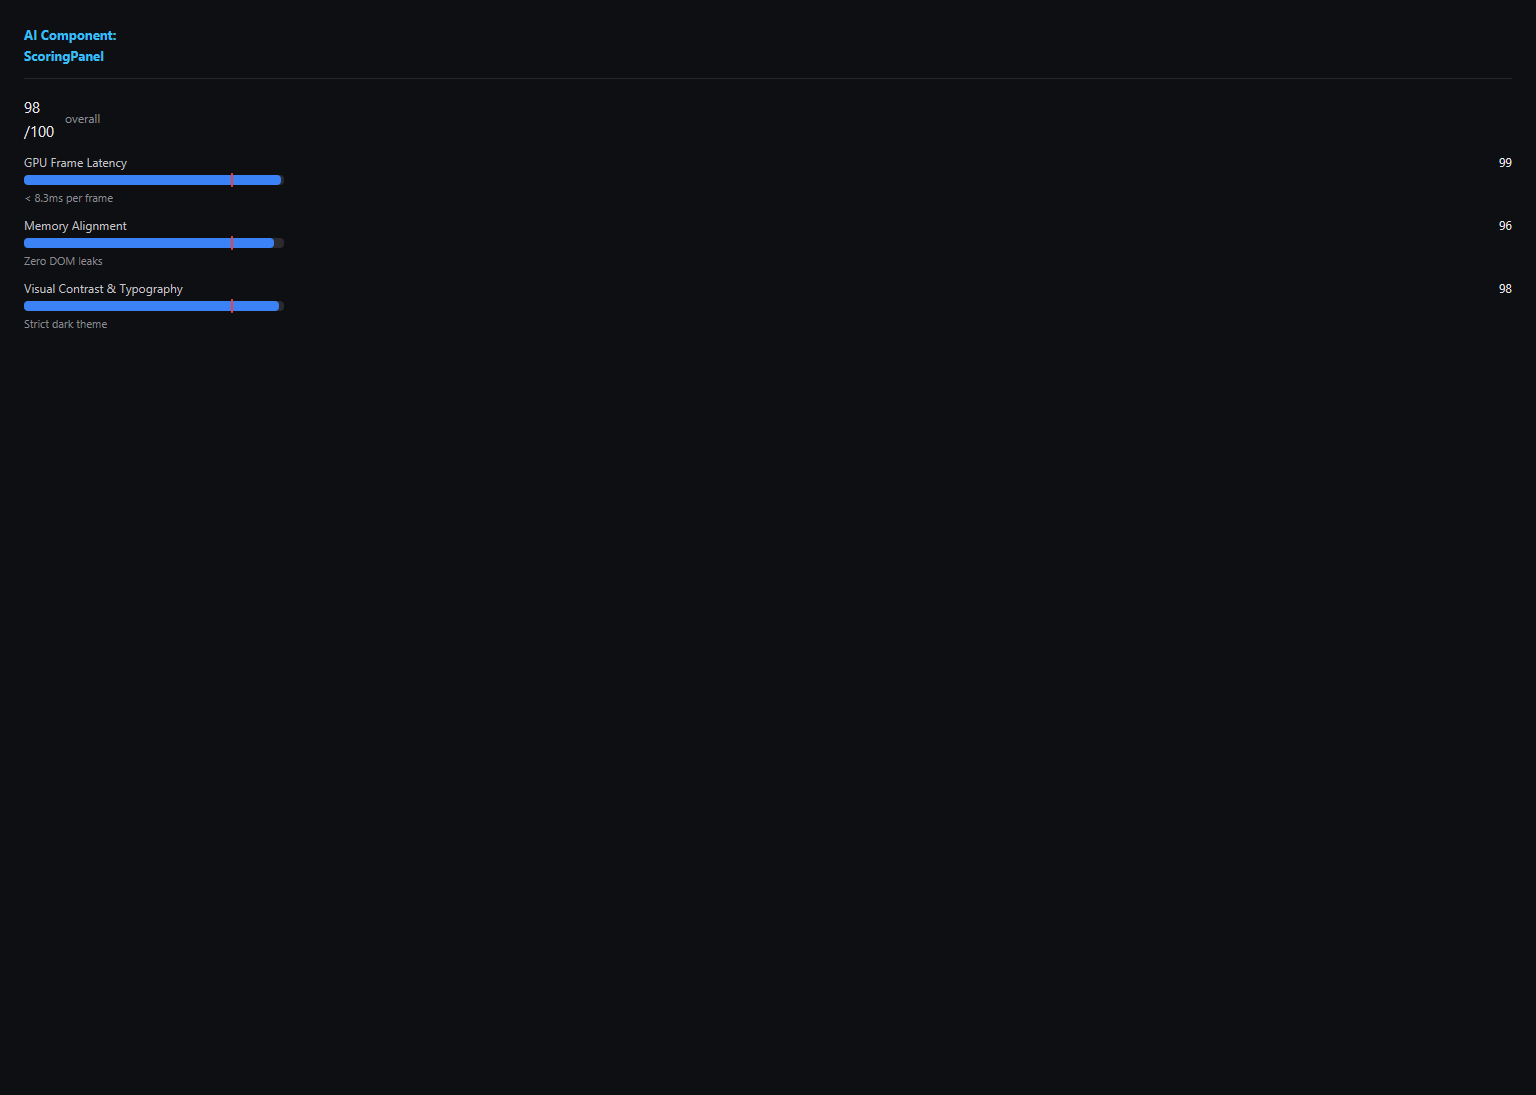
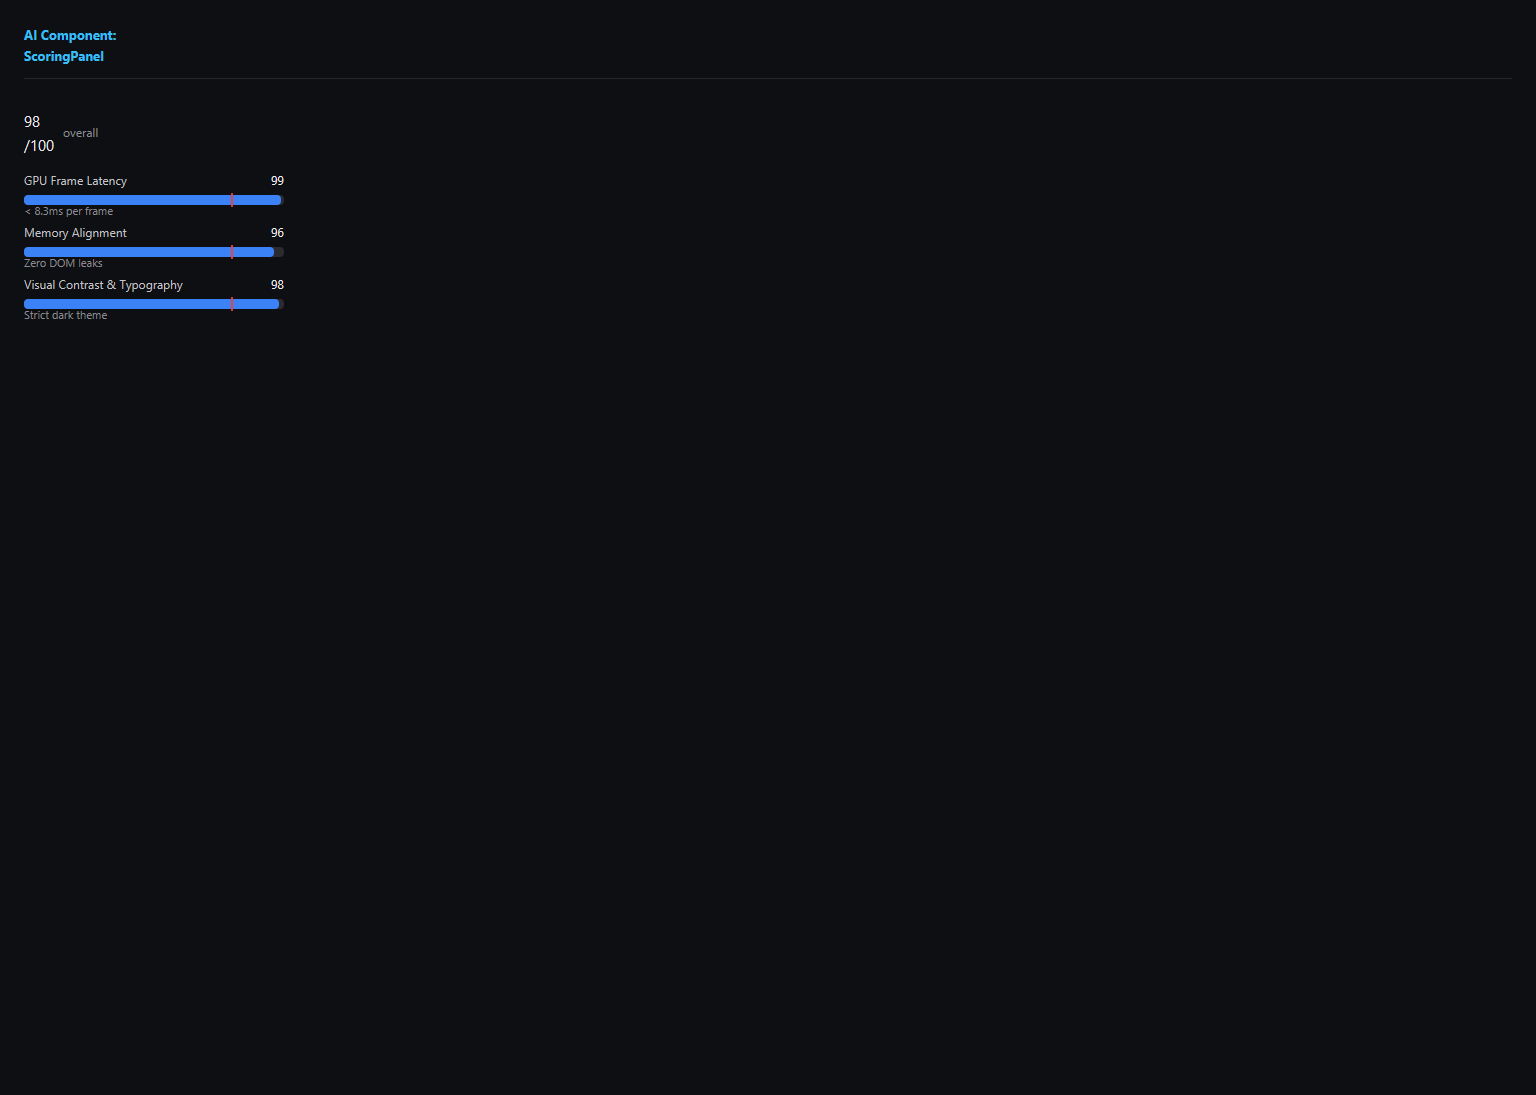
fix(ai): polish ScoringPanel spacing and SelectAndAsk card margins

Changed region(s): [[0.0, 0.0932, 0.1875, 0.3105]]

diff --git a/packages/ui/src/ai/ChatThread.tsx b/packages/ui/src/ai/ChatThread.tsx
@@ -34,6 +34,8 @@ export interface ChatThreadProps {
   suggestions?: string[]
   userName?: string
   assistantName?: string
+  /** Shrink to message content instead of filling a fixed parent height. */
+  fitContent?: boolean
 }
 
 export function ChatThread({
@@ -45,6 +47,7 @@ export function ChatThread({
   suggestions,
   userName,
   assistantName,
+  fitContent = false,
 }: ChatThreadProps) {
   const [draft, setDraft] = useState('')
   const safeMessages = messages ?? []
@@ -56,18 +59,38 @@ export function ChatThread({
     setDraft('')
   }
 
+  const messageNodes = safeMessages.map((m) => {
+    const isUser = m.role === 'user'
+    const authorName = m.name ?? (isUser ? userName : assistantName)
+    const letter = m.avatarLetter ?? (isUser ? 'U' : 'A')
+    return (
+      <ChatBubble
+        key={m.id}
+        role={m.role}
+        content={m.content}
+        name={authorName}
+        avatarLetter={letter}
+        avatarSrc={m.avatarSrc}
+        timestamp={m.timestamp}
+      />
+    )
+  })
+
   return (
-    <div style={{ display: 'flex', flexDirection: 'column', height: '100%', width: '100%' }}>
+    <div style={{ display: 'flex', flexDirection: 'column', height: fitContent ? 'auto' : '100%', width: '100%' }}>
       <div
         style={{
           width: '100%',
-          height: 48,
+          minHeight: 40,
           flexShrink: 0,
+          display: 'flex',
           flexDirection: 'row',
           alignItems: 'center',
           justifyContent: 'space-between',
-          paddingLeft: 16,
-          paddingRight: 16,
+          paddingLeft: 12,
+          paddingRight: 12,
+          paddingTop: 10,
+          paddingBottom: 10,
           borderBottomWidth: 1,
           borderColor: border.subtle,
         }}
@@ -83,28 +106,21 @@ export function ChatThread({
         )}
       </div>
 
-      <div style={{ flexGrow: 1, minHeight: 0, display: 'flex', flexDirection: 'column' }}>
-        <MessageScroller height="100%">
-          {safeMessages.map((m) => {
-            const isUser = m.role === 'user'
-            const authorName = m.name ?? (isUser ? userName : assistantName)
-            const letter = m.avatarLetter ?? (isUser ? 'U' : 'A')
-            return (
-              <ChatBubble
-                key={m.id}
-                role={m.role}
-                content={m.content}
-                name={authorName}
-                avatarLetter={letter}
-                avatarSrc={m.avatarSrc}
-                timestamp={m.timestamp}
-              />
-            )
-          })}
-        </MessageScroller>
-      </div>
+      {fitContent ? (
+        <div style={{ display: 'flex', flexDirection: 'column' }}>
+          {messageNodes.map((node, i) => (
+            <div key={i} style={{ paddingLeft: 12, paddingRight: 12, paddingTop: 6, paddingBottom: 6 }}>
+              {node}
+            </div>
+          ))}
+        </div>
+      ) : (
+        <div style={{ flexGrow: 1, minHeight: 0, display: 'flex', flexDirection: 'column' }}>
+          <MessageScroller height="100%">{messageNodes}</MessageScroller>
+        </div>
+      )}
 
-      <div style={{ padding: 12, borderTopWidth: 1, borderColor: border.subtle }}>
+      <div style={{ paddingLeft: 12, paddingRight: 12, paddingTop: 12, paddingBottom: 12, borderTopWidth: 1, borderColor: border.subtle }}>
         <PromptInput value={draft} onChange={setDraft} onSubmit={send} loading={loading} placeholder={placeholder} suggestions={suggestions} />
       </div>
     </div>

diff --git a/packages/ui/src/ai/ScoringPanel.tsx b/packages/ui/src/ai/ScoringPanel.tsx
@@ -22,23 +22,34 @@ export interface ScoringPanelProps {
 
 export function ScoringPanel({ criteria, overall }: ScoringPanelProps) {
   const max = Math.max(...criteria.map((c) => c.max ?? 100), 1)
+  const metricWidth = 260
+
   return (
-    <div style={{ display: 'flex', flexDirection: 'column', gap: 10 }}>
+    <div
+      style={{
+        display: 'flex',
+        flexDirection: 'column',
+        gap: 12,
+        paddingTop: 14,
+        paddingBottom: 14,
+        width: metricWidth,
+      }}
+    >
       {overall !== undefined ? (
-        <div style={{ display: 'flex', flexDirection: 'row', alignItems: 'center', gap: 10 }}>
+        <div style={{ display: 'flex', flexDirection: 'row', alignItems: 'center', gap: 8, paddingBottom: 2 }}>
           <text style={{ fontSize: 15, fontWeight: 700, color: textTokens.primary, fontFamily: FONT }}>{overall}/100</text>
           <text style={{ fontSize: 12, color: textTokens.muted, fontFamily: FONT }}>overall</text>
         </div>
       ) : null}
 
       {criteria.map((c) => (
-        <div key={c.id} style={{ display: 'flex', flexDirection: 'column', gap: 3 }}>
-          <div style={{ display: 'flex', flexDirection: 'row', alignItems: 'center', justifyContent: 'space-between' }}>
+        <div key={c.id} style={{ display: 'flex', flexDirection: 'column', gap: 5 }}>
+          <div style={{ display: 'flex', flexDirection: 'row', alignItems: 'center', justifyContent: 'space-between', width: metricWidth }}>
             <text style={{ fontSize: 12, color: textTokens.secondary, fontFamily: FONT }}>{c.label}</text>
             <text style={{ fontSize: 11.5, fontWeight: 600, color: textTokens.primary, fontFamily: FONT }}>{c.score}</text>
           </div>
-          <BulletChart value={c.score} target={(c.max ?? 100) * 0.8} max={c.max ?? max} width={260} height={10} />
-          {c.note ? <text style={{ fontSize: 11, color: textTokens.muted, fontFamily: FONT }}>{c.note}</text> : null}
+          <BulletChart value={c.score} target={(c.max ?? 100) * 0.8} max={c.max ?? max} width={metricWidth} height={10} />
+          {c.note ? <text style={{ fontSize: 11, color: textTokens.muted, fontFamily: FONT, lineHeight: 1.3 }}>{c.note}</text> : null}
         </div>
       ))}
     </div>

diff --git a/packages/ui/src/ai/SelectAndAsk.tsx b/packages/ui/src/ai/SelectAndAsk.tsx
@@ -1,4 +1,5 @@
 /** @atlas/ui — SelectAndAsk — act on a selection, then continue in a chat. */
+import { border } from '../tokens'
 import { SelectionToPrompt } from './SelectionToPrompt'
 import { ChatThread, type ChatThreadMessage } from './ChatThread'
 
@@ -12,10 +13,19 @@ export interface SelectAndAskProps {
 
 export function SelectAndAsk({ selectedText, messages, onSend, onAction, streaming = false }: SelectAndAskProps) {
   return (
-    <div style={{ display: 'flex', flexDirection: 'column', gap: 12 }}>
+    <div style={{ display: 'flex', flexDirection: 'column', gap: 12, width: '100%' }}>
       <SelectionToPrompt text={selectedText} onAction={onAction} />
-      <div style={{ height: 360, borderTopWidth: 1, borderColor: '#242428', paddingTop: 8 }}>
-        <ChatThread title="Follow-up" messages={messages} onSend={onSend} loading={streaming} />
+      <div
+        style={{
+          display: 'flex',
+          flexDirection: 'column',
+          borderRadius: 10,
+          borderWidth: 1,
+          borderColor: border.subtle,
+          overflow: 'hidden',
+        }}
+      >
+        <ChatThread title="Follow-up" messages={messages} onSend={onSend} loading={streaming} fitContent />
       </div>
     </div>
   )
